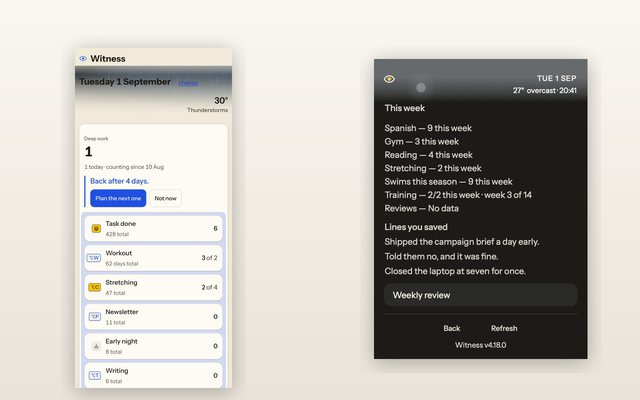
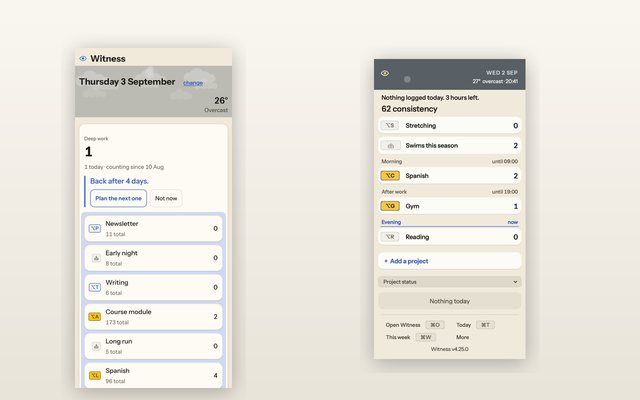
Witness page: update to v4.25.0 and rebuild the weekly loop as HTML
Witness shipped the Sunlight pass, D48 (Analytics in two real columns,
Settings one setting at a time) and D49/D51 (flat fills, no gradients
anywhere), so every screenshot on the page was of an older build.

- Re-shot all five device images, the four decision crops and the
  homepage card preview from v4.25.0, at 2x in the light theme, from
  the harness with generic demo data rather than a real record.
- Replaced the desktop band with the new two-column Analytics, and
  rewrote its caption and the section lead to describe what changed.
- Rebuilt the weekly loop as HTML instead of one scaled SVG: at 390px
  the SVG's labels shrank to about 4px. It is now a four-column row
  that becomes a vertical rail on phones, at full type size either way.
- check.sh rule 5i: parse every tag on every page and fail on a
  malformed attribute, a repeated one, a non-numeric width/height, or
  an img with no alt. Rule 5b only ever looked at anchors.
- check.sh now skips _*.html render scratch copies.

diff --git a/projects/witness.html b/projects/witness.html
@@ -76,41 +76,22 @@
 					<h2>The week it runs on</h2>
 					<p class="say">The commitment is made once a week and checked once in the middle, which is what keeps the daily interaction under ten seconds</p>
 					<div class="pj-body">
-						<div class="loop rv" role="img" aria-label="The weekly loop: on Sunday you name one thing and pin it to a moment, it rings at that moment, on Wednesday it asks whether it happened, every evening you close the day in ten seconds, and on Sunday it starts again.">
-							<svg viewBox="0 0 1040 196" xmlns="http://www.w3.org/2000/svg">
-								<line x1="130" y1="86" x2="949" y2="86" stroke="var(--line-strong)" stroke-width="2" />
-								<path d="M949 86 C 1000 86 1010 152 940 152 L 190 152 C 122 152 112 96 130 88"
-									fill="none" stroke="var(--sky)" stroke-width="1.8" stroke-dasharray="5 7" />
-								<path d="M130 88 L 126 74 M130 88 L 145 85" fill="none" stroke="var(--sky)" stroke-width="1.8" stroke-linecap="round" />
-								<g fill="var(--navy)">
-									<circle cx="130" cy="86" r="8" /><circle cx="403" cy="86" r="8" />
-									<circle cx="676" cy="86" r="8" /><circle cx="949" cy="86" r="8" />
-								</g>
-								<g font-family="Montserrat, Helvetica, sans-serif" font-size="12" font-weight="700"
-									letter-spacing="1.5" fill="var(--sky)" text-anchor="middle">
-									<text x="130" y="38">START OF THE WEEK</text>
-									<text x="403" y="38">THE MOMENT YOU PICKED</text>
-									<text x="676" y="38">MIDWEEK</text>
-									<text x="949" y="38">EVERY EVENING</text>
-								</g>
-								<g font-family="Montserrat, Helvetica, sans-serif" font-size="14.5" font-weight="500"
-									fill="var(--ink-mid)" text-anchor="middle">
-									<text x="130" y="63">You name one thing</text>
-									<text x="403" y="63">It rings</text>
-									<text x="676" y="63">Did it happen</text>
-									<text x="949" y="63">Ten seconds</text>
-								</g>
-								<text x="565" y="187" font-family="Montserrat, Helvetica, sans-serif" font-size="11.5"
-									font-weight="700" letter-spacing="1.4" fill="var(--ink-soft)" text-anchor="middle">AND THE WEEK STARTS AGAIN</text>
-							</svg>
+						<div class="loopwrap rv">
+							<ol class="loop">
+								<li><span class="dl"><i></i></span><span class="lk">Start of the week</span><span class="lv">You name one thing</span></li>
+								<li><span class="dl"><i></i></span><span class="lk">The moment you picked</span><span class="lv">It rings</span></li>
+								<li><span class="dl"><i></i></span><span class="lk">Midweek</span><span class="lv">Did it happen</span></li>
+								<li><span class="dl"><i></i></span><span class="lk">Every evening</span><span class="lv">Ten seconds</span></li>
+							</ol>
+							<p class="loop-back">and the week starts again</p>
 						</div>
 						<div class="loop-pair">
 							<figure class="dev phone">
-								<span class="screen-b"><img src="/projects/witness/phone-sunday.jpg" alt="The Sunday review, asking what got done and what was avoided" width="390" height="566" loading="lazy" decoding="async" /></span>
+								<span class="screen-b"><img src="/projects/witness/phone-sunday.jpg" alt="The review at the start of the week, asking what got done and what was avoided" width="390" height="566" loading="lazy" decoding="async" /></span>
 								<figcaption class="dev-cap">Start of the week, ten to fifteen minutes</figcaption>
 							</figure>
 							<figure class="dev phone">
-								<span class="screen-b"><img src="/projects/witness/phone-wednesday.jpg" alt="The Wednesday check, asking whether the one thing happened" width="390" height="566" loading="lazy" decoding="async" /></span>
+								<span class="screen-b"><img src="/projects/witness/phone-wednesday.jpg" alt="The midweek check, asking whether the one thing happened" width="390" height="566" loading="lazy" decoding="async" /></span>
 								<figcaption class="dev-cap">Midweek, two minutes</figcaption>
 							</figure>
 						</div>
@@ -122,22 +103,22 @@
 					<div class="pj-body">
 						<div class="calls">
 							<div class="call rv">
-								<span class="crop"><img src="/projects/witness/call-run.jpg" alt="A consistency figure of 62, with a note saying older days are worth less" width="756" height="236" loading="lazy" decoding="async" /></span>
+								<span class="crop"><img src="/projects/witness/call-run.jpg" alt="A consistency figure of 62, with a note saying recent days count for more" width="756" height="190" loading="lazy" decoding="async" /></span>
 								<div class="txt"><h3>Consistency is a weighted count</h3>
 								<p>Older days count for less, so one from a fortnight ago is worth half of today. The number follows how you are behaving now rather than how long an unbroken run has survived.</p></div>
 							</div>
 							<div class="call rv d1">
-								<span class="crop"><img src="/projects/witness/call-days.jpg" alt="Eighty-one days marked and eighty-seven answered out of the last ninety-one, drawn as a grid" width="756" height="467" loading="lazy" decoding="async" /></span>
+								<span class="crop"><img src="/projects/witness/call-days.jpg" alt="Eighty-one days marked and eighty-seven answered out of the last ninety-one, drawn as a grid" width="756" height="430" loading="lazy" decoding="async" /></span>
 								<div class="txt"><h3>The denominator is delivered reminders</h3>
 								<p>A day when no reminder was actually sent drops out of the count, which is why the two figures differ. It keeps the number measuring what you did rather than whether the notification got through.</p></div>
 							</div>
 							<div class="call rv">
-								<span class="crop"><img src="/projects/witness/call-week.jpg" alt="A week legend distinguishing all, part, none, no answer and no reminder" width="756" height="450" loading="lazy" decoding="async" /></span>
+								<span class="crop"><img src="/projects/witness/call-week.jpg" alt="A week legend distinguishing all, part, none, no answer and no reminder" width="756" height="535" loading="lazy" decoding="async" /></span>
 								<div class="txt"><h3>A day has five states</h3>
 								<p>All, part, none, no answer, and no reminder sent. Recording that nothing happened is a different state from never opening the app, and collapsing the two would lose the difference between a bad week and someone who has stopped.</p></div>
 							</div>
 							<div class="call rv d1">
-								<span class="crop"><img src="/projects/witness/call-goal.jpg" alt="A goal reading nine of sixteen gym sessions, fourteen days left, needs half a session a day from here" width="756" height="360" loading="lazy" decoding="async" /></span>
+								<span class="crop"><img src="/projects/witness/call-goal.jpg" alt="A goal reading nine of sixteen gym sessions, twelve days left, needs half a session a day from here" width="756" height="295" loading="lazy" decoding="async" /></span>
 								<div class="txt"><h3>Goals are a run rate</h3>
 								<p>You set a count and a date, and the progress comes from entries you are already making, so there is nothing extra to fill in. What it shows you is the rate needed from here, not a percentage or a grade.</p></div>
 							</div>
@@ -148,13 +129,13 @@
 
 				<section class="pj-sec">
 					<h2>Four surfaces, kept in step</h2>
-					<p class="say">A phone, a desktop browser, the Mac menu bar and a notification all have to say the same thing about the same day, and the fourth one below is the same Apps Script file laying itself out again</p>
+					<p class="say">A phone, a desktop browser, the Mac menu bar and a notification all have to say the same thing about the same day, and the browser below is the same Apps Script file laid out for the width rather than stretched out from the phone</p>
 					<div class="pj-body">
 						<div class="band rv">
 							<span class="bar" aria-hidden="true"><i></i><i></i><i></i></span>
-							<img src="/projects/witness/record-band.jpg" alt="The record in a desktop browser: eighty-one days marked of the last ninety-one, drawn as a grid of cells, above a consistency figure of sixty-two" width="1452" height="492" loading="lazy" decoding="async" />
+							<img src="/projects/witness/record-band.jpg" alt="Witness in a desktop browser: the record and its ninety-one day grid in the left column, and every written entry in the right" width="2560" height="1580" loading="lazy" decoding="async" />
 						</div>
-						<p class="band-cap"><b>Ninety-one days, one cell each</b></p>
+						<p class="band-cap"><b>Two columns, not one long phone screen</b>The record on the left and every entry on the right, so a desktop reads in one screen what a phone reads in four</p>
 						<div class="gate">
 							<div><b>24</b><span>named lanes in the build gate, run before anything ships</span></div>
 							<div><b>462</b><span>invariants enforced by a lane, of 594 registered</span></div>

diff --git a/site.css b/site.css
@@ -598,8 +598,30 @@ html.js .rv.in{opacity:1;transform:none}
 }
 
 /* the week, drawn */
-.loop{margin:0 0 clamp(30px,3.6vw,46px)}
-.loop svg{width:100%;height:auto;display:block;overflow:visible}
+.loopwrap{margin:0 0 clamp(30px,3.6vw,46px)}
+.loop{list-style:none;margin:0;padding:0;display:grid;grid-template-columns:repeat(4,1fr)}
+.loop li{display:grid;grid-template-areas:"k" "d" "v";justify-items:center;text-align:center}
+.loop .lk{grid-area:k;padding:0 8px;font-size:11px;font-weight:700;letter-spacing:.13em;text-transform:uppercase;color:var(--sky)}
+.loop .dl{grid-area:d;display:flex;align-items:center;align-self:stretch;width:100%;height:34px}
+.loop .dl::before,.loop .dl::after{content:"";flex:1;height:2px;background:var(--line-strong)}
+.loop li:first-child .dl::before,.loop li:last-child .dl::after{background:none}
+.loop .dl i{width:14px;height:14px;border-radius:50%;background:var(--navy);flex:none}
+.loop .lv{grid-area:v;padding:0 8px;font-size:15px;color:var(--ink-mid)}
+.loop-back{margin:26px 0 0;padding-top:15px;border-top:1.7px dashed var(--sky);font-size:11.5px;font-weight:700;
+	letter-spacing:.13em;text-transform:uppercase;color:var(--ink-soft);text-align:center}
+@media (max-width:660px){
+	.loop{grid-template-columns:1fr}
+	.loop li{grid-template-areas:"d k" "d v";grid-template-columns:14px 1fr;column-gap:16px;
+		justify-items:start;text-align:left}
+	.loop .lk,.loop .lv{padding:0}
+	.loop li:not(:last-child) .lv{padding-bottom:22px}
+	.loop .dl{flex-direction:column;width:14px;height:auto}
+	.loop .dl::before,.loop .dl::after{width:2px;height:auto}
+	.loop .dl::before{flex:none;height:9px}
+	.loop li:last-child .dl::after{flex:none;height:0}
+	.loop .lv{padding-top:3px}
+	.loop-back{text-align:left;margin-top:18px}
+}
 .loop-pair{display:flex;flex-wrap:wrap;gap:clamp(20px,2.8vw,40px);justify-content:center}
 
 /* a band of desktop at its own size, in a browser window */
